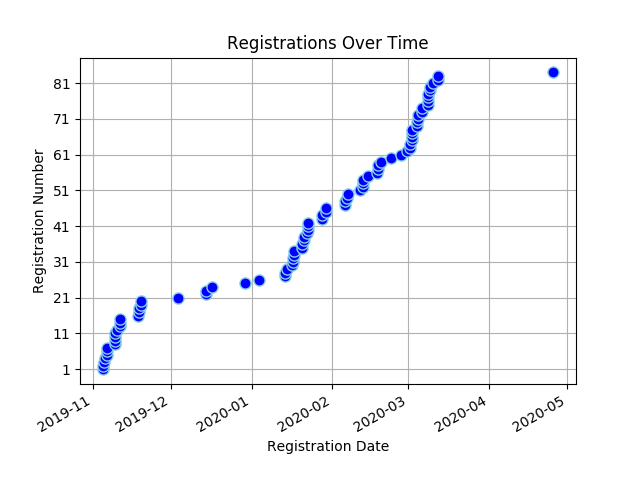
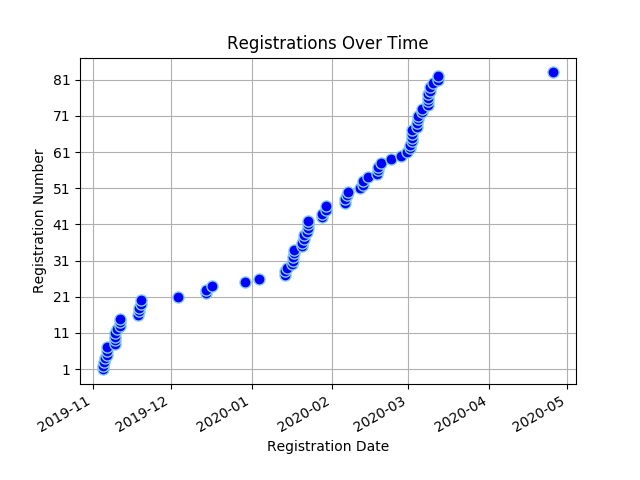
Registree stats backup on Fri May  8 13:12:20 SAST 2020

diff --git a/content/registrees/_index.md b/content/registrees/_index.md
@@ -3,7 +3,7 @@ title: Registration Stats
 draft: false
 ---
 
-<ul><li><strong>Number of Registrees</strong>: 84</li>
+<ul><li><strong>Number of Registrees</strong>: 83</li>
 
 <li><strong>Number of Clubs</strong>: 43</li>
 
@@ -30,6 +30,6 @@ draft: false
         </tr>
     </thead>
     <tbody>
-<tr><td>Linda Anderson</td><td>George</td></tr><tr><td>Tayebwa Smith Bamwesigye</td><td>Butterworth</td></tr><tr><td>Karl Bands</td><td>Helderkruin</td></tr><tr><td>Jonquille Bands</td><td>Helderkruin</td></tr><tr><td>Valencia Beukes</td><td>Kuilsriver</td></tr><tr><td>Annette Bothma</td><td>Fish Hoek</td></tr><tr><td>Jose Braga Borges</td><td>Malmesbury</td></tr><tr><td>Lynnette Virginia Christians</td><td>Cape Of Good Hope</td></tr><tr><td>Desiree Du Toit</td><td>Ramsgate</td></tr><tr><td>Bernd Gerhard</td><td>Wilro Park</td></tr><tr><td>Shirley Gerhard</td><td>Wilro Park</td></tr><tr><td>Valerie Graham</td><td>Nelspruit</td></tr><tr><td>Michael Graham</td><td>Nelspruit</td></tr><tr><td>Victor Hawla</td><td>Krugersdorp</td></tr><tr><td>Loriane Hawla</td><td>(Partner in Service)</td></tr><tr><td>Barbara Haywood</td><td>Eden</td></tr><tr><td>Wendy Higgins</td><td>Wilro Park</td></tr><tr><td>Trevor Hobbs</td><td>North Durban</td></tr><tr><td>Avril Hobbs</td><td>North Durban</td></tr><tr><td>Jacqui Hocking</td><td>Midrand</td></tr><tr><td>Cliff Hocking</td><td>Midrand</td></tr><tr><td>Leslie Human</td><td>East London Port Rex</td></tr><tr><td>Akinyemi Ismaila Tunde</td><td>-</td></tr><tr><td>Dawid Jacobs</td><td>Durbanville</td></tr><tr><td>Jean Jacobs</td><td>Mitchells Plain</td></tr><tr><td>Brenda Joshua</td><td>Cape Of Good Hope</td></tr><tr><td>Pascal Kabangu</td><td>Cape Of Good Hope</td></tr><tr><td>Ian King</td><td>Alberton</td></tr><tr><td>Sandy King</td><td>Alberton</td></tr><tr><td>Zwaai Krüger</td><td>Sedgefield</td></tr><tr><td>Bevil Lakay</td><td>Mitchells Plain</td></tr><tr><td>Paula Lang</td><td>Gordons Bay</td></tr><tr><td>James Malcolm Lang</td><td>Gordons Bay</td></tr><tr><td>Lance Maytham</td><td>Bredasdorp</td></tr><tr><td>Roy Michas</td><td>Midrand</td></tr><tr><td>Dawn Michas</td><td>Midrand</td></tr><tr><td>Patrick Mills</td><td>Centurion</td></tr><tr><td>Bernice Mills</td><td>Centurion</td></tr><tr><td>Alain Moulounda</td><td>Cape Of Good Hope</td></tr><tr><td>Suzanne Murray</td><td>Vereeniging</td></tr><tr><td>Tillie Nel</td><td>Eden</td></tr><tr><td>Pieter Nel</td><td>George</td></tr><tr><td>Michael Newlands</td><td>Port Alfred</td></tr><tr><td>Ramona Nulliah</td><td>Durban Host</td></tr><tr><td>Gary Nulliah</td><td>Durban Host</td></tr><tr><td>Teresa Pantoleon</td><td>Vereeniging</td></tr><tr><td>William Pfaff</td><td>North Durban</td></tr><tr><td>Patrick Pillay</td><td>Tygerberg Hills</td></tr><tr><td>Gavin Polkinghorne</td><td>Kensington</td></tr><tr><td>Tracey Polkinghorne</td><td>Kensington</td></tr><tr><td>Karin Preston</td><td>Durban South</td></tr><tr><td>Leon Ras</td><td>Swellendam</td></tr><tr><td>Mary-Anne Ras</td><td>Swellendam</td></tr><tr><td>Moira Rigby</td><td>Kingsburgh</td></tr><tr><td>David Rigby</td><td>Kingsburgh</td></tr><tr><td>Mark Rossouw</td><td>Tokai</td></tr><tr><td>Sharon Sampie</td><td>Bergvliet</td></tr><tr><td>Susanna Helena Smit</td><td>Centurion</td></tr><tr><td>Herman Smit</td><td>Swellendam</td></tr><tr><td>Berdine Smit</td><td>(Partner in Service)</td></tr><tr><td>Rochelle Smith</td><td>Cape Of Good Hope</td></tr><tr><td>Jeff Smith</td><td>Port Shepstone</td></tr><tr><td>Pierre Theron</td><td>Midrand</td></tr><tr><td>Moira Theron</td><td>Midrand</td></tr><tr><td>Diane Townsend</td><td>Benoni Lakes</td></tr><tr><td>Kendyl Townsend</td><td>Benoni Lakes</td></tr><tr><td>Alex Tshikala</td><td>Athlone</td></tr><tr><td>Alistair Tuckett</td><td>Roodepoort Clearwater Cyber</td></tr><tr><td>Rowan Tuckett</td><td>Roodepoort Clearwater Cyber</td></tr><tr><td>Neville Van Rensburg</td><td>Moorreesburg</td></tr><tr><td>Joyce Wilcocks</td><td>Pretoria Jakaranda</td></tr><tr><td>Richard Williams</td><td>(Partner in Service)</td></tr><tr><td>Owolabi Williams Monzur</td><td>Badagry</td></tr><tr><td>Geila Wills</td><td>Cape Town</td></tr><tr><td>Patricia Wilson</td><td>Kingsburgh</td></tr><tr><td>Judy Young</td><td>Durbanville</td></tr><tr><td>Sydney van Heerden</td><td>Wilro Park</td></tr><tr><td>Sandy van Heerden</td><td>Wilro Park</td></tr><tr><td>Lindie van Wyk</td><td>Pretoria Jakaranda</td></tr><tr><td>Martha Maria van der Merwe</td><td>Malmesbury</td></tr><tr><td>Brian von der Decken</td><td>King William's Town</td></tr><tr><td>Janet von der Decken</td><td>(Partner in Service)</td></tr><tr><td>Andrew von der Decken</td><td>King William's Town</td></tr><tr><td>Ann von der Decken</td><td>King William's Town</td></tr>
+<tr><td>Linda Anderson</td><td>George</td></tr><tr><td>Tayebwa Smith Bamwesigye</td><td>Butterworth</td></tr><tr><td>Karl Bands</td><td>Helderkruin</td></tr><tr><td>Jonquille Bands</td><td>Helderkruin</td></tr><tr><td>Valencia Beukes</td><td>Kuilsriver</td></tr><tr><td>Annette Bothma</td><td>Fish Hoek</td></tr><tr><td>Jose Braga Borges</td><td>Malmesbury</td></tr><tr><td>Lynnette Virginia Christians</td><td>Cape Of Good Hope</td></tr><tr><td>Desiree Du Toit</td><td>Ramsgate</td></tr><tr><td>Bernd Gerhard</td><td>Wilro Park</td></tr><tr><td>Shirley Gerhard</td><td>Wilro Park</td></tr><tr><td>Valerie Graham</td><td>Nelspruit</td></tr><tr><td>Michael Graham</td><td>Nelspruit</td></tr><tr><td>Victor Hawla</td><td>Krugersdorp</td></tr><tr><td>Loriane Hawla</td><td>(Partner in Service)</td></tr><tr><td>Barbara Haywood</td><td>Eden</td></tr><tr><td>Wendy Higgins</td><td>Wilro Park</td></tr><tr><td>Trevor Hobbs</td><td>North Durban</td></tr><tr><td>Avril Hobbs</td><td>North Durban</td></tr><tr><td>Jacqui Hocking</td><td>Midrand</td></tr><tr><td>Cliff Hocking</td><td>Midrand</td></tr><tr><td>Leslie Human</td><td>East London Port Rex</td></tr><tr><td>Akinyemi Ismaila Tunde</td><td>-</td></tr><tr><td>Dawid Jacobs</td><td>Durbanville</td></tr><tr><td>Jean Jacobs</td><td>Mitchells Plain</td></tr><tr><td>Brenda Joshua</td><td>Cape Of Good Hope</td></tr><tr><td>Pascal Kabangu</td><td>Cape Of Good Hope</td></tr><tr><td>Ian King</td><td>Alberton</td></tr><tr><td>Sandy King</td><td>Alberton</td></tr><tr><td>Zwaai Krüger</td><td>Sedgefield</td></tr><tr><td>Bevil Lakay</td><td>Mitchells Plain</td></tr><tr><td>Paula Lang</td><td>Gordons Bay</td></tr><tr><td>James Malcolm Lang</td><td>Gordons Bay</td></tr><tr><td>Lance Maytham</td><td>Bredasdorp</td></tr><tr><td>Roy Michas</td><td>Midrand</td></tr><tr><td>Dawn Michas</td><td>Midrand</td></tr><tr><td>Patrick Mills</td><td>Centurion</td></tr><tr><td>Bernice Mills</td><td>Centurion</td></tr><tr><td>Alain Moulounda</td><td>Cape Of Good Hope</td></tr><tr><td>Suzanne Murray</td><td>Vereeniging</td></tr><tr><td>Pieter Nel</td><td>George</td></tr><tr><td>Michael Newlands</td><td>Port Alfred</td></tr><tr><td>Ramona Nulliah</td><td>Durban Host</td></tr><tr><td>Gary Nulliah</td><td>Durban Host</td></tr><tr><td>Teresa Pantoleon</td><td>Vereeniging</td></tr><tr><td>William Pfaff</td><td>North Durban</td></tr><tr><td>Patrick Pillay</td><td>Tygerberg Hills</td></tr><tr><td>Gavin Polkinghorne</td><td>Kensington</td></tr><tr><td>Tracey Polkinghorne</td><td>Kensington</td></tr><tr><td>Karin Preston</td><td>Durban South</td></tr><tr><td>Leon Ras</td><td>Swellendam</td></tr><tr><td>Mary-Anne Ras</td><td>Swellendam</td></tr><tr><td>Moira Rigby</td><td>Kingsburgh</td></tr><tr><td>David Rigby</td><td>Kingsburgh</td></tr><tr><td>Mark Rossouw</td><td>Tokai</td></tr><tr><td>Sharon Sampie</td><td>Bergvliet</td></tr><tr><td>Susanna Helena Smit</td><td>Centurion</td></tr><tr><td>Herman Smit</td><td>Swellendam</td></tr><tr><td>Berdine Smit</td><td>(Partner in Service)</td></tr><tr><td>Rochelle Smith</td><td>Cape Of Good Hope</td></tr><tr><td>Jeff Smith</td><td>Port Shepstone</td></tr><tr><td>Pierre Theron</td><td>Midrand</td></tr><tr><td>Moira Theron</td><td>Midrand</td></tr><tr><td>Diane Townsend</td><td>Benoni Lakes</td></tr><tr><td>Kendyl Townsend</td><td>Benoni Lakes</td></tr><tr><td>Alex Tshikala</td><td>Athlone</td></tr><tr><td>Alistair Tuckett</td><td>Roodepoort Clearwater Cyber</td></tr><tr><td>Rowan Tuckett</td><td>Roodepoort Clearwater Cyber</td></tr><tr><td>Neville Van Rensburg</td><td>Moorreesburg</td></tr><tr><td>Joyce Wilcocks</td><td>Pretoria Jakaranda</td></tr><tr><td>Richard Williams</td><td>(Partner in Service)</td></tr><tr><td>Owolabi Williams Monzur</td><td>Badagry</td></tr><tr><td>Geila Wills</td><td>Cape Town</td></tr><tr><td>Patricia Wilson</td><td>Kingsburgh</td></tr><tr><td>Judy Young</td><td>Durbanville</td></tr><tr><td>Sydney van Heerden</td><td>Wilro Park</td></tr><tr><td>Sandy van Heerden</td><td>Wilro Park</td></tr><tr><td>Lindie van Wyk</td><td>Pretoria Jakaranda</td></tr><tr><td>Martha Maria van der Merwe</td><td>Malmesbury</td></tr><tr><td>Brian von der Decken</td><td>King William's Town</td></tr><tr><td>Janet von der Decken</td><td>(Partner in Service)</td></tr><tr><td>Andrew von der Decken</td><td>King William's Town</td></tr><tr><td>Ann von der Decken</td><td>King William's Town</td></tr>
 </tbody>
 </table>

diff --git a/content/full_stats/_index.md b/content/full_stats/_index.md
@@ -17,21 +17,21 @@ draft: false
 <body>
 <h1 style="color: #000000;">Full Registration Stats</h1>
 <ul><li><strong>Number of Registrees</strong><ul>
-<li><strong>Total</strong>: 84</li>
-<li><strong>Lions</strong>: 80</li>
+<li><strong>Total</strong>: 83</li>
+<li><strong>Lions</strong>: 79</li>
 <li><strong>Partners In Service</strong>: 4</li>
 </ul>
 <li><strong>Number of Clubs</strong>: 43</li>
 <li><strong>Club With Most Attendees</strong>: Midrand (6 registrees)</li>
-<li><strong>Registrations</strong></li><ul><li><strong>Full</strong>: 81
+<li><strong>Registrations</strong></li><ul><li><strong>Full</strong>: 80
 <li><strong>Banquet</strong>: 1
 <li><strong>Convention</strong>: 2
 <li><strong>Theme</strong>: 1
 </ul><li><strong>Extra Items</strong></li><ul>
-<li><strong>Pins</strong>: 75
+<li><strong>Pins</strong>: 72
 </ul><li><strong>Extra Activities</strong></li><ul>
-<li><strong>MJF Lunch</strong>: 24
-<li><strong>PDG Breakfast</strong>: 19
+<li><strong>MJF Lunch</strong>: 23
+<li><strong>PDG Breakfast</strong>: 18
 <li><strong>Sharks Board</strong>: 4
 <li><strong>Golf</strong>: 2
 <li><strong>Sight Seeing</strong>: 11
@@ -39,12 +39,12 @@ draft: false
 <li><strong>Partner Program</strong>: 4
 </ul>
 <li><strong>Payment Details</strong></li><ul>
-<li><strong>Total Owed:</strong> R109960.00</li>
-<li><strong>Paid:</strong> R52650.00</li>
+<li><strong>Total Owed:</strong> R108510.00</li>
+<li><strong>Paid:</strong> R51200.00</li>
 <li><strong>Still Owed:</strong> R57310.00</li>
-<li><strong>Number of Attendees Who Have Paid in Full:</strong> 36 (42.86%)</li>
-<li><strong>Number of Attendees Who Have Paid in Part:</strong> 10 (11.90%)</li>
-<li><strong>Number of Attendees Who Haven't Paid Anything:</strong> 38 (45.24%)</li>
+<li><strong>Number of Attendees Who Have Paid in Full:</strong> 35 (42.17%)</li>
+<li><strong>Number of Attendees Who Have Paid in Part:</strong> 10 (12.05%)</li>
+<li><strong>Number of Attendees Who Haven't Paid Anything:</strong> 38 (45.78%)</li>
 </ul>
 <li><strong>Cancellations</strong></li><ul>
 <li>20-02-07 McCullough, David (reg number: 058)</li>
@@ -83,6 +83,7 @@ draft: false
 <li>20-05-05 Flanagan, Julie (reg number: 025)</li>
 <li>20-05-05 van Wyk, Kim (reg number: 023)</li>
 <li>20-05-05 van Wyk, Vicki (reg number: 022)</li>
+<li>20-05-08 Nel, Tillie (reg number: 090)</li>
 </ul>
 <li><strong>Dietary Requirements</strong></li><ul>
 <li>Allergic to Shellfish</li>
@@ -565,17 +566,6 @@ StillOwed
 <td>1340.00</td>
 <td>0.00</td>
 <td>1340.00</td>
-</tr>
-
-    
-<tr style="background-color: lightgreen">
-<td>90</td>
-<td>Tillie Nel</td>
-<td>Eden</td>
-<td>PDG Tillie Nel </td>
-<td>1450.00</td>
-<td>1450.00</td>
-<td>0.00</td>
 </tr>
 
     
